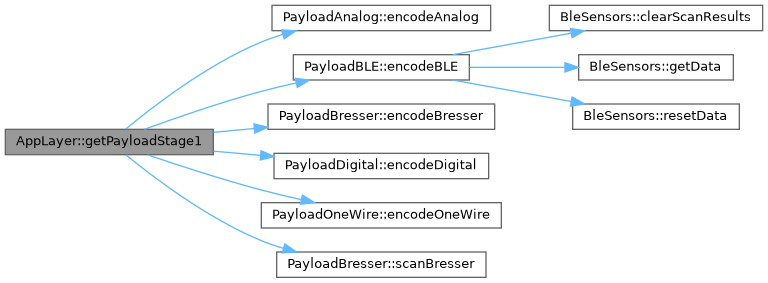
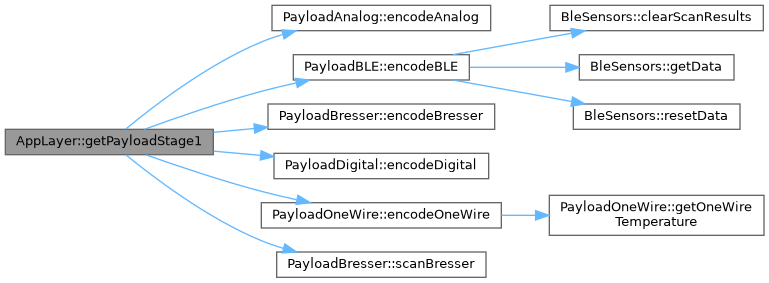
Deploying to gh-pages from @ matthias-bs/BresserWeatherSensorLW@c68b01ec3ed7bd5eb12be24df55289ee2cea950b 🚀

diff --git a/_payload_one_wire_8h_source.html b/_payload_one_wire_8h_source.html
@@ -164,8 +164,8 @@ $(document).ready(function(){initNavTree('_payload_one_wire_8h_source.html','');
 <div class="line"><a id="l00079" name="l00079"></a><span class="lineno">   79</span><span class="preprocessor">#endif </span><span class="comment">// ONEWIRE_EN</span></div>
 <div class="line"><a id="l00080" name="l00080"></a><span class="lineno">   80</span><span class="preprocessor">#endif </span><span class="comment">//_PAYLOAD_ONE_WIRE</span></div>
 <div class="ttc" id="aclass_payload_one_wire_html"><div class="ttname"><a href="class_payload_one_wire.html">PayloadOneWire</a></div><div class="ttdef"><b>Definition</b> PayloadOneWire.h:55</div></div>
-<div class="ttc" id="aclass_payload_one_wire_html_a5043522dafe7a837c962943822ee9cc6"><div class="ttname"><a href="class_payload_one_wire.html#a5043522dafe7a837c962943822ee9cc6">PayloadOneWire::encodeOneWire</a></div><div class="ttdeci">void encodeOneWire(uint8_t *appPayloadCfg, LoraEncoder &amp;encoder)</div><div class="ttdoc">Encode 1-Wire temperature sensor values for LoRaWAN transmission.</div><div class="ttdef"><b>Definition</b> PayloadOneWire.cpp:80</div></div>
-<div class="ttc" id="aclass_payload_one_wire_html_ab81e478ce922fe2bfc31d4dd9a3ec6d6"><div class="ttname"><a href="class_payload_one_wire.html#ab81e478ce922fe2bfc31d4dd9a3ec6d6">PayloadOneWire::getOneWireTemperature</a></div><div class="ttdeci">float getOneWireTemperature(uint8_t index)</div><div class="ttdoc">Get temperature from Maxim OneWire Sensor.</div><div class="ttdef"><b>Definition</b> PayloadOneWire.cpp:57</div></div>
+<div class="ttc" id="aclass_payload_one_wire_html_a5043522dafe7a837c962943822ee9cc6"><div class="ttname"><a href="class_payload_one_wire.html#a5043522dafe7a837c962943822ee9cc6">PayloadOneWire::encodeOneWire</a></div><div class="ttdeci">void encodeOneWire(uint8_t *appPayloadCfg, LoraEncoder &amp;encoder)</div><div class="ttdoc">Encode 1-Wire temperature sensor values for LoRaWAN transmission.</div><div class="ttdef"><b>Definition</b> PayloadOneWire.cpp:81</div></div>
+<div class="ttc" id="aclass_payload_one_wire_html_ab81e478ce922fe2bfc31d4dd9a3ec6d6"><div class="ttname"><a href="class_payload_one_wire.html#ab81e478ce922fe2bfc31d4dd9a3ec6d6">PayloadOneWire::getOneWireTemperature</a></div><div class="ttdeci">float getOneWireTemperature(uint8_t index)</div><div class="ttdoc">Get temperature from Maxim OneWire Sensor.</div><div class="ttdef"><b>Definition</b> PayloadOneWire.cpp:58</div></div>
 <div class="ttc" id="aclass_payload_one_wire_html_ad08088de2a9d564c8a973ec4e5c00100"><div class="ttname"><a href="class_payload_one_wire.html#ad08088de2a9d564c8a973ec4e5c00100">PayloadOneWire::PayloadOneWire</a></div><div class="ttdeci">PayloadOneWire()</div><div class="ttdoc">Constructor.</div><div class="ttdef"><b>Definition</b> PayloadOneWire.h:60</div></div>
 </div><!-- fragment --></div><!-- contents -->
 </div><!-- doc-content -->

diff --git a/class_app_layer.html b/class_app_layer.html
@@ -534,15 +534,17 @@ Here is the call graph for this function:</div>
 <area shape="rect" href="class_payload_digital.html#a0aa5d6f61ce07e16da6241f1234faec6" title="Encode digital data channels for LoRaWAN transmission." alt="" coords="274,153,489,179"/>
 <area shape="poly" title=" " alt="" coords="214,149,261,153,260,158,213,154"/>
 <area shape="rect" href="class_payload_one_wire.html#a5043522dafe7a837c962943822ee9cc6" title="Encode 1&#45;Wire temperature sensor values for LoRaWAN transmission." alt="" coords="261,203,501,228"/>
-<area shape="poly" title=" " alt="" coords="148,152,262,187,302,197,301,202,261,193,147,157"/>
+<area shape="poly" title=" " alt="" coords="146,152,262,189,297,197,296,202,261,194,145,157"/>
 <area shape="rect" href="class_payload_bresser.html#a134c066b8cf0363c761f27e072b4af8b" title="Scan for Bresser sensors." alt="" coords="277,252,486,277"/>
 <area shape="poly" title=" " alt="" coords="127,153,185,195,222,219,262,238,284,246,283,251,260,243,220,223,182,200,124,157"/>
-<area shape="rect" href="class_ble_sensors.html#a02b6268f0eb8262bd19d4647b34fd588" title="Delete results from BLEScan buffer to release memory." alt="" coords="549,5,763,31"/>
+<area shape="rect" href="class_ble_sensors.html#a02b6268f0eb8262bd19d4647b34fd588" title="Delete results from BLEScan buffer to release memory." alt="" coords="550,5,763,31"/>
 <area shape="poly" title=" " alt="" coords="452,52,571,31,572,36,453,57"/>
-<area shape="rect" href="class_ble_sensors.html#afbf84629a4b746d732b66141f0387655" title="Get data from sensors by running a BLE scan." alt="" coords="579,55,733,80"/>
-<area shape="poly" title=" " alt="" coords="469,65,565,65,565,70,469,70"/>
-<area shape="rect" href="class_ble_sensors.html#ae98eb8bb9a7cf676f340123abf89a1f6" title="Set sensor data invalid." alt="" coords="573,104,739,129"/>
+<area shape="rect" href="class_ble_sensors.html#afbf84629a4b746d732b66141f0387655" title="Get data from sensors by running a BLE scan." alt="" coords="579,55,734,80"/>
+<area shape="poly" title=" " alt="" coords="470,65,566,65,566,70,470,70"/>
+<area shape="rect" href="class_ble_sensors.html#ae98eb8bb9a7cf676f340123abf89a1f6" title="Set sensor data invalid." alt="" coords="573,104,740,129"/>
 <area shape="poly" title=" " alt="" coords="453,77,572,99,571,104,452,83"/>
+<area shape="rect" href="class_payload_one_wire.html#ab81e478ce922fe2bfc31d4dd9a3ec6d6" title="Get temperature from Maxim OneWire Sensor." alt="" coords="549,195,764,235"/>
+<area shape="poly" title=" " alt="" coords="501,213,535,213,535,218,501,218"/>
 </map>
 </div>
 

diff --git a/class_payload_one_wire.html b/class_payload_one_wire.html
@@ -155,6 +155,16 @@ Public Member Functions</h2></td></tr>
   </table>
   </dd>
 </dl>
+<div class="dynheader">
+Here is the call graph for this function:</div>
+<div class="dyncontent">
+<div class="center"><img src="class_payload_one_wire_a5043522dafe7a837c962943822ee9cc6_cgraph.png" border="0" usemap="#aclass_payload_one_wire_a5043522dafe7a837c962943822ee9cc6_cgraph" alt=""/></div>
+<map name="aclass_payload_one_wire_a5043522dafe7a837c962943822ee9cc6_cgraph" id="aclass_payload_one_wire_a5043522dafe7a837c962943822ee9cc6_cgraph">
+<area shape="rect" title="Encode 1&#45;Wire temperature sensor values for LoRaWAN transmission." alt="" coords="5,13,245,38"/>
+<area shape="rect" href="class_payload_one_wire.html#ab81e478ce922fe2bfc31d4dd9a3ec6d6" title="Get temperature from Maxim OneWire Sensor." alt="" coords="293,5,508,45"/>
+<area shape="poly" title=" " alt="" coords="245,23,279,23,279,28,245,28"/>
+</map>
+</div>
 
 </div>
 </div>
